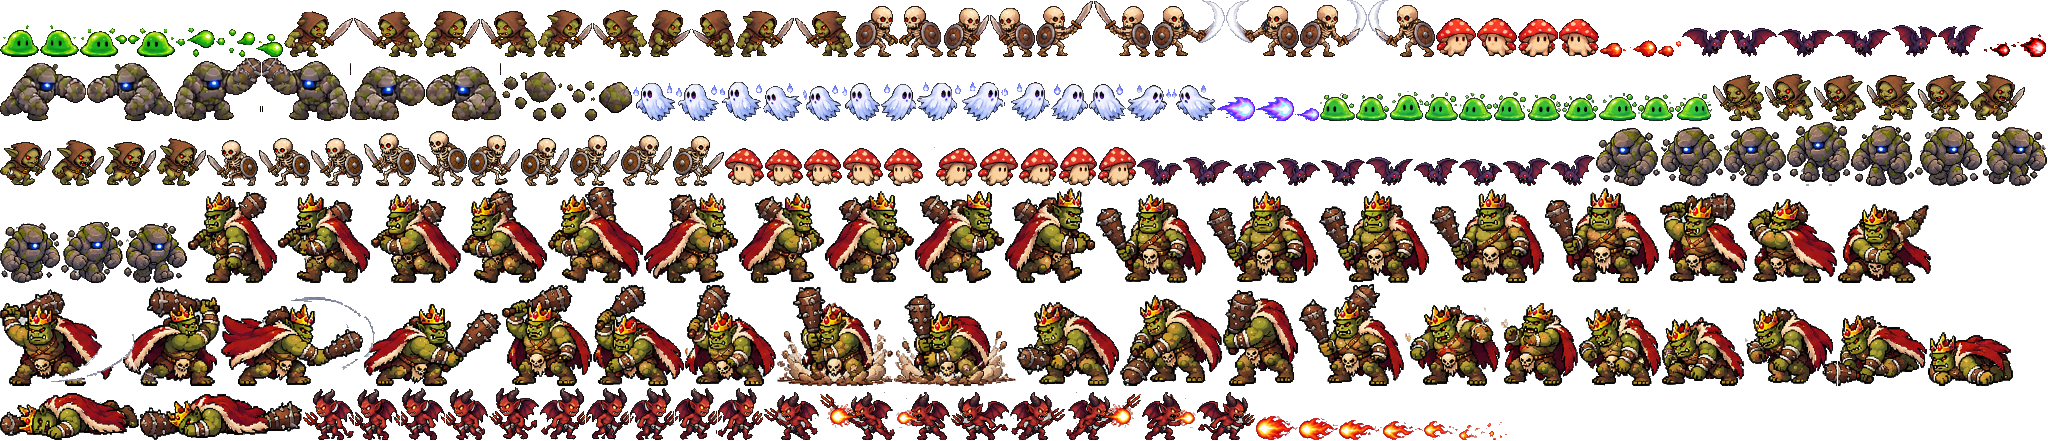
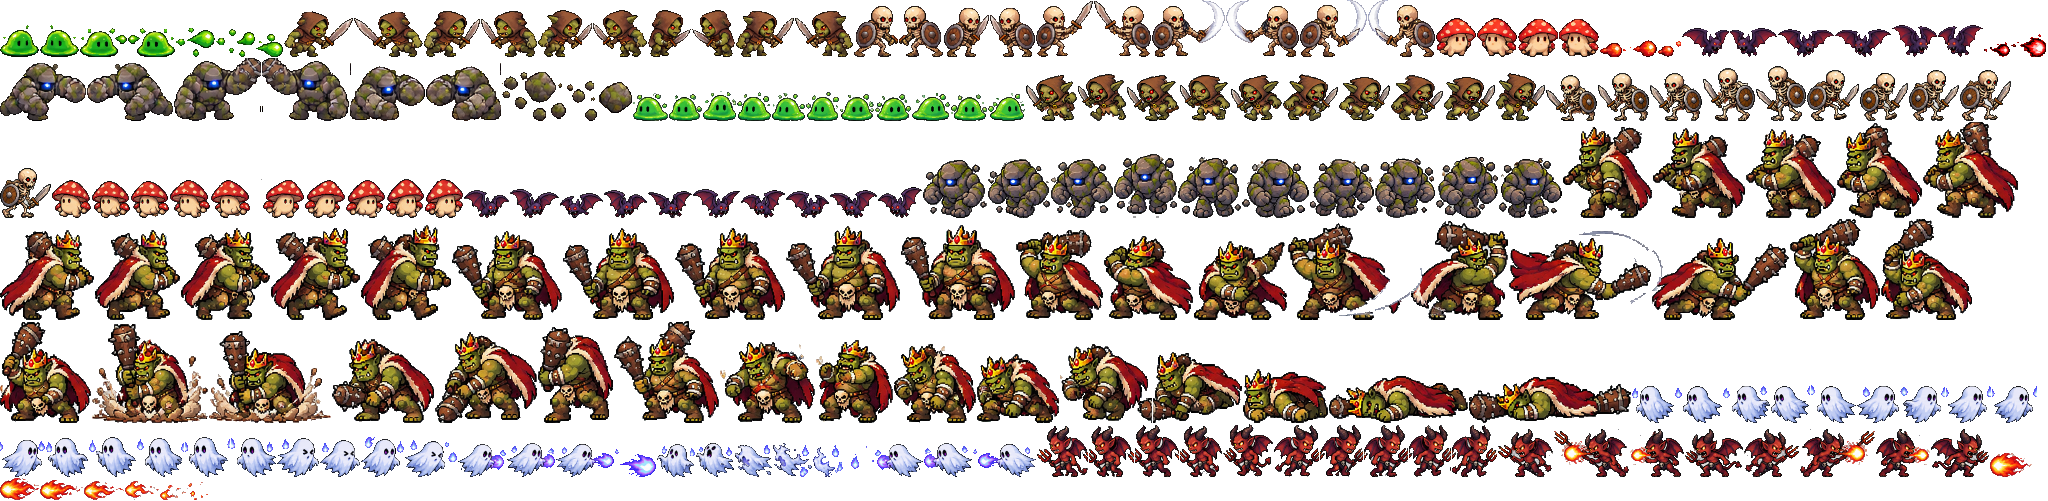
Ghost animation sheet
tools/ghost.png (real transparency, label boxes removed): walk left/right, idle,
hurt flinch, a 3-frame shoot attack with its ghost-fire projectile, and a death
that plays where it's defeated. Flinch and death animations now work for any
monster that has them.

Claude-Session: https://claude.ai/code/session_01FFhEA1UyqBRgv5VPwuY3ib

diff --git a/js/mob-frames.js b/js/mob-frames.js
@@ -1,3 +1,3 @@
 // Generated from tools/mobs.png by tools/build-mobs.py: [x, y, w, h, anchorX] per frame,
 // at twice game size (drawn at half size).
-export const MOB_FRAMES = {"slime": {"atkR": [[0, 25, 39, 32, 18], [80, 28, 47, 29, 19]], "atkL": [[40, 25, 39, 32, 19], [128, 28, 47, 29, 27]], "shot": [[176, 28, 39, 29, 19], [216, 29, 39, 28, 25], [256, 34, 27, 23, 17]], "left": [[1320, 93, 35, 28, 17], [1356, 94, 33, 27, 15], [1390, 91, 33, 30, 16], [1424, 92, 34, 29, 16], [1459, 93, 33, 28, 16], [1493, 92, 33, 29, 16]], "right": [[1527, 94, 34, 27, 16], [1562, 94, 36, 27, 18], [1599, 93, 38, 28, 18], [1638, 94, 36, 27, 18], [1675, 93, 37, 28, 18]]}, "goblin": {"atkR": [[284, 11, 69, 46, 19], [424, 11, 56, 46, 16], [538, 10, 54, 47, 16], [648, 10, 43, 47, 11], [736, 11, 58, 46, 17]], "atkL": [[354, 11, 69, 46, 48], [481, 11, 56, 46, 38], [593, 10, 54, 47, 37], [692, 10, 43, 47, 31], [795, 11, 58, 46, 39]], "left": [[1713, 75, 51, 46, 31], [1765, 74, 48, 47, 31], [1814, 75, 52, 46, 29], [1867, 75, 50, 46, 28], [1918, 75, 51, 46, 27]], "right": [[1970, 74, 55, 47, 21], [0, 142, 51, 44, 22], [52, 140, 52, 46, 22], [105, 142, 51, 44, 17], [157, 138, 49, 48, 19]]}, "skeleton": {"atkR": [[854, 6, 44, 51, 18], [944, 8, 45, 49, 17], [1036, 1, 57, 56, 16], [1152, 0, 73, 57, 19], [1300, 0, 67, 57, 17]], "atkL": [[899, 6, 44, 51, 25], [990, 8, 45, 49, 27], [1094, 1, 57, 56, 40], [1226, 0, 73, 57, 53], [1368, 0, 67, 57, 48]], "left": [[207, 140, 51, 46, 31], [259, 138, 51, 48, 32], [311, 138, 52, 48, 31], [364, 133, 52, 53, 28], [417, 131, 50, 55, 29]], "right": [[468, 135, 52, 51, 21], [521, 138, 48, 48, 20], [570, 135, 50, 51, 20], [621, 135, 51, 51, 20], [673, 136, 51, 50, 18]]}, "shroomling": {"atkR": [[1436, 18, 40, 39, 17], [1518, 19, 40, 38, 17]], "atkL": [[1477, 18, 40, 39, 22], [1559, 19, 40, 38, 22]], "shot": [[1600, 43, 22, 14, 11], [1623, 40, 34, 17, 24], [1658, 41, 23, 16, 7]], "left": [[725, 148, 39, 38, 17], [765, 149, 38, 37, 20], [804, 149, 38, 37, 20], [843, 148, 40, 38, 19], [884, 147, 51, 39, 21]], "right": [[936, 148, 41, 38, 19], [978, 148, 40, 38, 19], [1019, 148, 39, 38, 17], [1059, 147, 38, 39, 18], [1098, 147, 38, 39, 17]]}, "bat": {"atkR": [[1682, 28, 47, 29, 27], [1778, 29, 56, 28, 25], [1892, 25, 45, 32, 22]], "atkL": [[1730, 28, 47, 29, 19], [1835, 29, 56, 28, 29], [1938, 25, 45, 32, 22]], "shot": [[1984, 42, 26, 15, 19], [2011, 34, 35, 23, 26]], "left": [[1137, 158, 45, 28, 23], [1183, 157, 49, 29, 21], [1233, 161, 43, 25, 18], [1277, 158, 43, 28, 18], [1321, 159, 44, 27, 22]], "right": [[1366, 157, 47, 29, 24], [1414, 158, 44, 28, 24], [1459, 159, 43, 27, 22], [1503, 158, 47, 28, 24], [1551, 155, 44, 31, 22]]}, "golem": {"atkR": [[0, 63, 86, 58, 37], [174, 58, 87, 63, 32], [350, 63, 75, 58, 24]], "atkL": [[87, 63, 86, 58, 48], [262, 58, 87, 63, 54], [426, 63, 75, 58, 49]], "shot": [[502, 72, 64, 49, 45], [567, 81, 65, 40, 23]], "left": [[1596, 128, 64, 58, 34], [1661, 127, 62, 59, 34], [1724, 127, 62, 59, 29], [1787, 122, 63, 64, 31], [1851, 125, 63, 61, 34]], "right": [[1915, 127, 67, 59, 32], [1983, 127, 64, 59, 27], [0, 223, 60, 60, 24], [61, 222, 62, 61, 27], [124, 223, 63, 60, 28]]}, "ghost": {"left": [[633, 83, 42, 38, 22], [676, 84, 43, 37, 21], [720, 82, 42, 39, 21], [763, 83, 39, 38, 21], [803, 85, 38, 36, 21]], "right": [[842, 83, 38, 38, 22], [881, 84, 35, 37, 16], [917, 82, 44, 39, 18], [962, 82, 41, 39, 20], [1004, 82, 46, 39, 24]], "atkR": [[1051, 84, 37, 37, 14], [1127, 85, 44, 36, 16]], "atkL": [[1089, 84, 37, 37, 21], [1172, 85, 44, 36, 27]], "shot": [[1217, 97, 38, 24, 21], [1256, 97, 38, 24, 23], [1295, 108, 24, 13, 16]]}, "ogre": {"left": [[188, 192, 89, 91, 45], [278, 193, 92, 90, 50], [371, 194, 90, 89, 46], [462, 188, 85, 95, 45], [548, 187, 95, 96, 46]], "right": [[644, 193, 94, 90, 49], [739, 193, 85, 90, 41], [825, 191, 89, 92, 43], [915, 191, 89, 92, 41], [1005, 188, 90, 95, 40]], "idle": [[1096, 194, 110, 89, 59], [1207, 191, 111, 92, 59], [1319, 191, 110, 92, 59], [1430, 189, 114, 94, 64], [1545, 188, 114, 95, 60]], "swing": [[1660, 193, 87, 90, 43], [1748, 199, 89, 84, 38], [1838, 204, 93, 79, 38], [0, 289, 122, 97, 47], [123, 287, 97, 99, 54], [221, 297, 142, 89, 53], [364, 304, 137, 82, 47]], "smash": [[502, 285, 90, 101, 42], [593, 285, 91, 101, 39], [685, 285, 91, 101, 44], [777, 287, 116, 99, 59], [894, 294, 122, 92, 56], [1017, 302, 102, 84, 56], [1120, 295, 102, 91, 42], [1223, 290, 75, 96, 36], [1299, 284, 105, 102, 59]], "hurt": [[1405, 305, 95, 81, 49], [1501, 303, 77, 83, 32], [1579, 307, 82, 79, 42], [1662, 317, 82, 69, 37]], "die": [[1745, 307, 92, 79, 59], [1838, 315, 89, 71, 16], [1928, 332, 85, 54, 37], [0, 393, 139, 47, 59], [140, 394, 162, 46, 41]]}, "imp": {"left": [[303, 389, 51, 51, 31], [355, 389, 45, 51, 20], [401, 388, 44, 52, 21], [446, 389, 42, 51, 22], [489, 387, 50, 53, 26]], "right": [[540, 388, 45, 52, 22], [586, 388, 43, 52, 17], [630, 388, 44, 52, 19], [675, 388, 42, 52, 18], [718, 388, 45, 52, 18]], "shootL": [[764, 392, 55, 48, 31], [820, 392, 75, 48, 56], [896, 392, 54, 48, 35], [951, 392, 58, 48, 29]], "shootR": [[1010, 392, 55, 48, 22], [1066, 392, 75, 48, 17], [1142, 392, 54, 48, 17], [1197, 392, 58, 48, 28]]}, "fireball": {"fly": [[1256, 416, 42, 24, 14], [1299, 418, 39, 22, 13], [1339, 420, 43, 20, 12], [1383, 421, 40, 19, 12]], "burst": [[1424, 421, 34, 19, 10], [1459, 425, 26, 15, 8], [1486, 422, 21, 18, 9]]}};
+export const MOB_FRAMES = {"slime": {"atkR": [[0, 25, 39, 32, 18], [80, 28, 47, 29, 19]], "atkL": [[40, 25, 39, 32, 19], [128, 28, 47, 29, 27]], "shot": [[176, 28, 39, 29, 19], [216, 29, 39, 28, 25], [256, 34, 27, 23, 17]], "left": [[633, 93, 35, 28, 17], [669, 94, 33, 27, 15], [703, 91, 33, 30, 16], [737, 92, 34, 29, 16], [772, 93, 33, 28, 16], [806, 92, 33, 29, 16]], "right": [[840, 94, 34, 27, 16], [875, 94, 36, 27, 18], [912, 93, 38, 28, 18], [951, 94, 36, 27, 18], [988, 93, 37, 28, 18]]}, "goblin": {"atkR": [[284, 11, 69, 46, 19], [424, 11, 56, 46, 16], [538, 10, 54, 47, 16], [648, 10, 43, 47, 11], [736, 11, 58, 46, 17]], "atkL": [[354, 11, 69, 46, 48], [481, 11, 56, 46, 38], [593, 10, 54, 47, 37], [692, 10, 43, 47, 31], [795, 11, 58, 46, 39]], "left": [[1026, 75, 51, 46, 31], [1078, 74, 48, 47, 31], [1127, 75, 52, 46, 29], [1180, 75, 50, 46, 28], [1231, 75, 51, 46, 27]], "right": [[1283, 74, 55, 47, 21], [1339, 77, 51, 44, 22], [1391, 75, 52, 46, 22], [1444, 77, 51, 44, 17], [1496, 73, 49, 48, 19]]}, "skeleton": {"atkR": [[854, 6, 44, 51, 18], [944, 8, 45, 49, 17], [1036, 1, 57, 56, 16], [1152, 0, 73, 57, 19], [1300, 0, 67, 57, 17]], "atkL": [[899, 6, 44, 51, 25], [990, 8, 45, 49, 27], [1094, 1, 57, 56, 40], [1226, 0, 73, 57, 53], [1368, 0, 67, 57, 48]], "left": [[1546, 75, 51, 46, 31], [1598, 73, 51, 48, 32], [1650, 73, 52, 48, 31], [1703, 68, 52, 53, 28], [1756, 66, 50, 55, 29]], "right": [[1807, 70, 52, 51, 21], [1860, 73, 48, 48, 20], [1909, 70, 50, 51, 20], [1960, 70, 51, 51, 20], [0, 168, 51, 50, 18]]}, "shroomling": {"atkR": [[1436, 18, 40, 39, 17], [1518, 19, 40, 38, 17]], "atkL": [[1477, 18, 40, 39, 22], [1559, 19, 40, 38, 22]], "shot": [[1600, 43, 22, 14, 11], [1623, 40, 34, 17, 24], [1658, 41, 23, 16, 7]], "left": [[52, 180, 39, 38, 17], [92, 181, 38, 37, 20], [131, 181, 38, 37, 20], [170, 180, 40, 38, 19], [211, 179, 51, 39, 21]], "right": [[263, 180, 41, 38, 19], [305, 180, 40, 38, 19], [346, 180, 39, 38, 17], [386, 179, 38, 39, 18], [425, 179, 38, 39, 17]]}, "bat": {"atkR": [[1682, 28, 47, 29, 27], [1778, 29, 56, 28, 25], [1892, 25, 45, 32, 22]], "atkL": [[1730, 28, 47, 29, 19], [1835, 29, 56, 28, 29], [1938, 25, 45, 32, 22]], "shot": [[1984, 42, 26, 15, 19], [2011, 34, 35, 23, 26]], "left": [[464, 190, 45, 28, 23], [510, 189, 49, 29, 21], [560, 193, 43, 25, 18], [604, 190, 43, 28, 18], [648, 191, 44, 27, 22]], "right": [[693, 189, 47, 29, 24], [741, 190, 44, 28, 24], [786, 191, 43, 27, 22], [830, 190, 47, 28, 24], [878, 187, 44, 31, 22]]}, "golem": {"atkR": [[0, 63, 86, 58, 37], [174, 58, 87, 63, 32], [350, 63, 75, 58, 24]], "atkL": [[87, 63, 86, 58, 48], [262, 58, 87, 63, 54], [426, 63, 75, 58, 49]], "shot": [[502, 72, 64, 49, 45], [567, 81, 65, 40, 23]], "left": [[923, 160, 64, 58, 34], [988, 159, 62, 59, 34], [1051, 159, 62, 59, 29], [1114, 154, 63, 64, 31], [1178, 157, 63, 61, 34]], "right": [[1242, 159, 67, 59, 32], [1310, 159, 64, 59, 27], [1375, 158, 60, 60, 24], [1436, 157, 62, 61, 27], [1499, 158, 63, 60, 28]]}, "ogre": {"left": [[1563, 127, 89, 91, 45], [1653, 128, 92, 90, 50], [1746, 129, 90, 89, 46], [1837, 123, 85, 95, 45], [1923, 122, 95, 96, 46]], "right": [[0, 230, 94, 90, 49], [95, 230, 85, 90, 41], [181, 228, 89, 92, 43], [271, 228, 89, 92, 41], [361, 225, 90, 95, 40]], "idle": [[452, 231, 110, 89, 59], [563, 228, 111, 92, 59], [675, 228, 110, 92, 59], [786, 226, 114, 94, 64], [901, 225, 114, 95, 60]], "swing": [[1016, 230, 87, 90, 43], [1104, 236, 89, 84, 38], [1194, 241, 93, 79, 38], [1288, 223, 122, 97, 47], [1411, 221, 97, 99, 54], [1509, 231, 142, 89, 53], [1652, 238, 137, 82, 47]], "smash": [[1790, 219, 90, 101, 42], [1881, 219, 91, 101, 39], [0, 322, 91, 101, 44], [92, 324, 116, 99, 59], [209, 331, 122, 92, 56], [332, 339, 102, 84, 56], [435, 332, 102, 91, 42], [538, 327, 75, 96, 36], [614, 321, 105, 102, 59]], "hurt": [[720, 342, 95, 81, 49], [816, 340, 77, 83, 32], [894, 344, 82, 79, 42], [977, 354, 82, 69, 37]], "die": [[1060, 344, 92, 79, 59], [1153, 352, 89, 71, 16], [1243, 369, 85, 54, 37], [1329, 376, 139, 47, 59], [1469, 377, 162, 46, 41]]}, "ghost": {"left": [[1632, 386, 42, 37, 21], [1675, 386, 47, 37, 25], [1723, 386, 47, 37, 27], [1771, 386, 39, 37, 19], [1811, 385, 45, 38, 25]], "right": [[1857, 386, 42, 37, 22], [1900, 386, 45, 37, 21], [1946, 386, 45, 37, 20], [1992, 386, 45, 37, 20], [0, 440, 45, 37, 21]], "idle": [[46, 438, 42, 39, 25], [89, 437, 47, 40, 28], [137, 438, 47, 39, 27], [185, 437, 45, 40, 25], [231, 438, 45, 39, 27]], "hurt": [[277, 438, 42, 39, 22], [320, 440, 40, 37, 22], [361, 437, 43, 40, 19], [405, 440, 52, 37, 19]], "atkR": [[458, 444, 48, 33, 17], [507, 443, 48, 34, 19], [556, 444, 63, 33, 19]], "shot": [[620, 454, 36, 23, 20]], "die": [[657, 444, 38, 33, 24], [696, 443, 38, 34, 17], [735, 445, 37, 32, 23], [773, 443, 39, 34, 23], [813, 445, 61, 32, 15]], "atkL": [[875, 444, 48, 33, 29], [924, 443, 48, 34, 27], [973, 444, 63, 33, 43]]}, "imp": {"left": [[1037, 426, 51, 51, 31], [1089, 426, 45, 51, 20], [1135, 425, 44, 52, 21], [1180, 426, 42, 51, 22], [1223, 424, 50, 53, 26]], "right": [[1274, 425, 45, 52, 22], [1320, 425, 43, 52, 17], [1364, 425, 44, 52, 19], [1409, 425, 42, 52, 18], [1452, 425, 45, 52, 18]], "shootL": [[1498, 429, 55, 48, 31], [1554, 429, 75, 48, 56], [1630, 429, 54, 48, 35], [1685, 429, 58, 48, 29]], "shootR": [[1744, 429, 55, 48, 22], [1800, 429, 75, 48, 17], [1876, 429, 54, 48, 17], [1931, 429, 58, 48, 28]]}, "fireball": {"fly": [[1990, 453, 42, 24, 14], [0, 478, 39, 22, 13], [40, 480, 43, 20, 12], [84, 481, 40, 19, 12]], "burst": [[125, 481, 34, 19, 10], [160, 485, 26, 15, 8], [187, 482, 21, 18, 9]]}};

diff --git a/js/render.js b/js/render.js
@@ -67,7 +67,7 @@ export class Renderer {
     switch (e.k) {
       case 'dmg': this.addFx({ t: 'num', x: e.x, y: e.y, v: e.v, life: 0.7, z: 0 }); break;
       case 'die':
-        if (e.t === 'ogre' && animFrames('ogre', 'die')) this.addFx({ t: 'corpse', type: 'ogre', d: e.d || 1, x: e.x, y: e.y, life: 3, max: 3 });
+        if (animFrames(e.t, 'die')) this.addFx({ t: 'corpse', type: e.t, d: e.d || 1, x: e.x, y: e.y, life: e.t === 'ogre' ? 3 : 1.6, max: e.t === 'ogre' ? 3 : 1.6 });
         for (let i = 0; i < 6; i++) this.addFx({ t: 'part', x: e.x, y: e.y, vx: (Math.random() - 0.5) * 3, vy: (Math.random() - 0.5) * 3, z: 6, vz: 20 + Math.random() * 20, life: 0.5, c: { slime: '#3cb83c', imp: '#d83c2c', shroomling: '#e84838', golem: '#8c8068', bat: '#7c3c6c', goblin: '#7c8c3c' }[e.t] || '#e8e8d8' });
         if (e.t === 'ogre') this.shake = 0.6;
         break;
@@ -425,14 +425,14 @@ export class Renderer {
     else if (e.st === 2) s = play('swing', CHARGE_TIME);
     else if (e.st === 4) s = play((e.dir || 1) < 0 ? 'shootL' : 'shootR', 0.45);
     else if (e.st === 5) s = play((e.dir || 1) < 0 ? 'atkL' : 'atkR', e.type === 'goblin' || e.type === 'skeleton' ? MELEE_TIME : SHOOT_TIME);
-    else if (e.flash && e.type === 'ogre') s = monsterAnim(e.type, 'hurt', e.dir || 1, Math.floor(time * 12) % 2);
+    else if (e.flash && animFrames(e.type, 'hurt')) s = monsterAnim(e.type, 'hurt', e.dir || 1, Math.floor(time * 12) % 2);
     else if (e.st === 1) s = monsterAnim(e.type, 'idle', e.dir || 1, Math.floor(time * 6) % Math.max(1, animFrames(e.type, 'idle')));
     s = s || monsterSprite(e.type, e.dir || 1, frame);
     const fly = e.type === 'bat' || e.type === 'ghost';
     const bob = fly ? Math.round(Math.sin(time * 4 + e.id) * 2) - 6 : (nf === 1 ? (Math.floor(time * 4 + e.id) % 2) : 0);
     drawShadow(g, x, y, e.type === 'ogre' ? 18 : e.type === 'golem' ? 16 : 8);
     if (e.type === 'ghost') g.globalAlpha = 0.75;
-    const flashWhite = e.flash && !(e.type === 'ogre' && animFrames('ogre', 'hurt'));
+    const flashWhite = e.flash && !animFrames(e.type, 'hurt');
     g.drawImage(flashWhite ? s.white : s.img, x - s.ox, y - s.oy + bob, s.w || s.img.width, s.h || s.img.height);
     g.globalAlpha = 1;
     if (e.hp < e.maxHp && !e.boss && e.type !== 'ogre') {
@@ -614,7 +614,7 @@ export class Renderer {
         const t = f.max - f.life, n = animFrames(f.type, 'die');
         const s = monsterAnim(f.type, 'die', f.d, Math.min(n - 1, Math.floor(t / 0.9 * n)));
         if (s) {
-          g.globalAlpha = Math.min(1, f.life / 0.8);
+          g.globalAlpha = Math.min(1, f.life / 0.8) * (f.type === 'ghost' ? 0.75 : 1);
           g.drawImage(s.img, this.sx(f.x, f.y) - s.ox, this.sy(f.x, f.y) - s.oy, s.w, s.h);
           g.globalAlpha = 1;
         }

diff --git a/js/sprites.js b/js/sprites.js
@@ -331,13 +331,14 @@ export function monsterSprite(type, facing, frame) {
 }
 // A monster's named animation from the sheet (e.g. the Ogre King's 'smash', the
 // Devil's 'shootL'), frame clamped to the last; null if it has none (or monsters wear
-// the photo face). Hurt and death frames face left, so they're mirrored to face right.
-const ANIM_FACES_LEFT = new Set(['hurt', 'die']);
+// the photo face). The Ogre King's hurt and death frames face left, so they're mirrored
+// to face right.
+const ANIM_FACES_LEFT = new Set(['ogre:hurt', 'ogre:die']);
 export function monsterAnim(type, anim, facing, frame) {
   const list = !mobFace && mobAtlas && MOB_FRAMES[type] && MOB_FRAMES[type][anim];
   if (!list) return null;
   const i = Math.max(0, Math.min(list.length - 1, frame));
-  const flip = ANIM_FACES_LEFT.has(anim) && facing > 0;
+  const flip = ANIM_FACES_LEFT.has(`${type}:${anim}`) && facing > 0;
   const key = `${type}|${anim}|${i}|${flip ? 1 : 0}`;
   let s = monsterCache.get(key);
   if (!s) {

diff --git a/tools/build-mobs.py b/tools/build-mobs.py
@@ -105,6 +105,31 @@ for name, (y0, y1, height) in ROWS.items():
             frames.append((name, side, cell.crop(cell.getbbox())))
 HEIGHT = {name: h for name, (_, _, h) in ROWS.items()}
 
+def clean_alpha(path):
+    """A sheet with real transparency: just remove its label boxes."""
+    global W, H, px
+    im = Image.open(path).convert('RGBA'); W, H = im.size; px = im.load()
+    navy = lambda q: q[3] >= 128 and max(q[:3]) <= 50 and q[2] >= q[0] + 4
+    done = bytearray(W * H)
+    for y in range(H):
+        for x in range(W):
+            if done[y * W + x] or not navy(px[x, y]): continue
+            st = [(x, y)]; done[y * W + x] = 1; c = []
+            while st:
+                cx, cy = st.pop(); c.append((cx, cy))
+                for nx, ny in ((cx + 1, cy), (cx - 1, cy), (cx, cy + 1), (cx, cy - 1)):
+                    if 0 <= nx < W and 0 <= ny < H and not done[ny * W + nx] and navy(px[nx, ny]):
+                        done[ny * W + nx] = 1; st.append((nx, ny))
+            xs = [q[0] for q in c]; ys = [q[1] for q in c]
+            if len(c) > 800 and max(xs) - min(xs) > 80 and max(ys) - min(ys) < 60:
+                for yy in range(max(0, min(ys) - 3), min(H, max(ys) + 4)):
+                    for xx in range(max(0, min(xs) - 3), min(W, max(xs) + 4)): px[xx, yy] = (0, 0, 0, 0)
+    # faint glow left semi-transparent counts as empty
+    for y in range(H):
+        for x in range(W):
+            if px[x, y][3] < 128: px[x, y] = (0, 0, 0, 0)
+    return im
+
 # Sheets with one monster each and several animations, whose frames can touch:
 # each animation is (rows y0-y1, x positions of the cuts between frames).
 EXTRA = [
@@ -117,6 +142,15 @@ EXTRA = [
         'hurt': ((855, 1000), [20, 180, 310, 455, 597]),
         'die': ((855, 1000), [597, 745, 892, 1030, 1252, 1515]),
     }),
+    ('tools/ghost.png', 'ghost', 19, {  # real transparency; only its label boxes need removing
+        'left': ((120, 292), [45, 228, 412, 600, 780, 965]),
+        'right': ((120, 292), [1050, 1238, 1412, 1592, 1772, 1955]),
+        'idle': ((368, 545), [45, 228, 412, 600, 780, 965]),
+        'hurt': ((378, 552), [1050, 1240, 1425, 1612, 1835]),
+        'atkR': ((625, 778), [25, 238, 460, 740]),
+        'shot': ((625, 778), [740, 895]),
+        'die': ((622, 782), [985, 1152, 1312, 1492, 1670, 1960]),
+    }),
     ('tools/devil.png', 'imp', 26, {  # the Devil (it used to be an imp)
         'left': ((165, 352), [0, 172, 322, 467, 610, 768]),
         'right': ((165, 352), [800, 957, 1100, 1245, 1385, 1536]),
@@ -128,7 +162,7 @@ EXTRA = [
     }),
 ]
 for path, name, height, anims in EXTRA:
-    im = clean(path)
+    im = clean_alpha(path) if path.endswith('ghost.png') else clean(path)
     HEIGHT[name] = height
     for anim, ((y0, y1), cuts) in anims.items():
         cells = [[] for _ in cuts[:-1]]
@@ -145,6 +179,8 @@ for path, name, height, anims in EXTRA:
             cell = Image.new('RGBA', im.size); cp = cell.load()
             for q in c: cp[q] = px[q]
             frames.append((name, anim, cell.crop(cell.getbbox())))
+    if 'atkR' in anims:  # attacking to the left: the right-facing frames mirrored
+        frames += [(name, 'atkL', f.transpose(Image.FLIP_LEFT_RIGHT)) for n, a, f in frames if n == name and a == 'atkR']
     if name == 'imp':  # shooting to the right: the left-facing frames mirrored
         frames += [(name, 'shootR', f.transpose(Image.FLIP_LEFT_RIGHT)) for n, a, f in frames if n == name and a == 'shootL']
 
@@ -194,10 +230,7 @@ ATTACK_ROWS = {  # monster: (rows y0-y1, walk-left x range, {animation: cuts})
     'shroomling': ((355, 434), (40, 505), {'atk': [978, 1083, 1168], 'shot': [1255, 1315, 1420, 1500]}),
     'bat': ((458, 548), (40, 505), {'atk': [958, 1074, 1210, 1328], 'shot': [1328, 1415, 1515]}),
     'golem': ((563, 656), (95, 525), {'atk': [970, 1093, 1212, 1322], 'shot': [1322, 1418, 1520]}),
-    'ghost': ((930, 1014), (112, 530), {'left': [112, 198, 288, 375, 455, 530], 'right': [535, 620, 700, 790, 870, 960],
-                                        'atk': [995, 1090, 1192], 'shot': [1192, 1290, 1400, 1475]}),
-}
-HEIGHT.setdefault('ghost', 19)
+}  # (the ghost has its own sheet, tools/ghost.png)
 im = clean_gradient('tools/mob-attacks.png')
 attack_frames = []
 for name, ((y0, y1), (wx0, wx1), anims) in ATTACK_ROWS.items():
@@ -225,7 +258,6 @@ for name, anim, f, sheet_h in attack_frames:  # same size as the monster's own w
     out.append((name, 'atkR' if anim == 'atk' else anim, sm))
     if anim == 'atk': out.append((name, 'atkL', sm.transpose(Image.FLIP_LEFT_RIGHT)))
 for name, height in HEIGHT.items():
-    if name == 'ghost': continue  # all from the attack sheet
     mine = [f for f in frames if f[0] == name]
     ref = [f for f in mine if f[1] in ('left', 'right')] or mine[:1]  # size by the walk (or first) frames
     k = height * DETAIL / (sum(f[2].height for f in ref) / len(ref))
